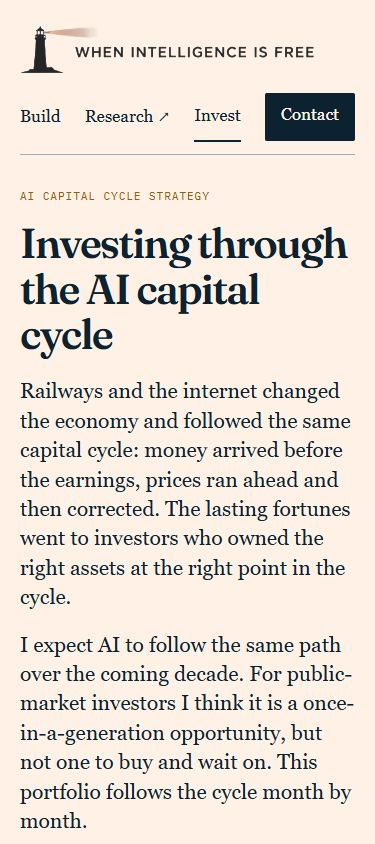
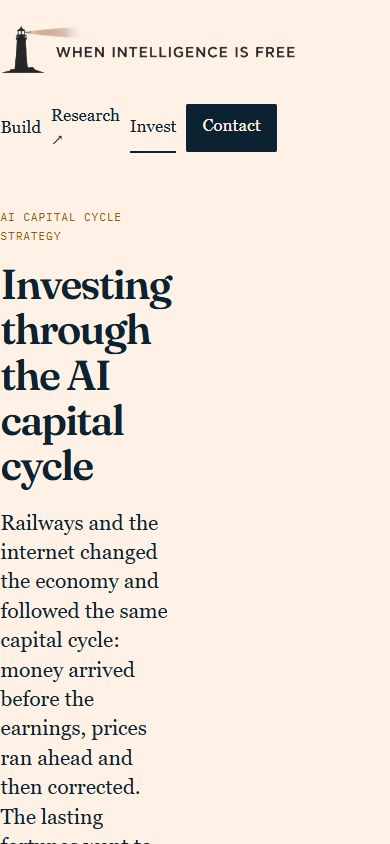
Record production verification and complete screenshot comparisons

diff --git a/docs/website-pass-2026-11-17/CHANGELOG.md b/docs/website-pass-2026-11-17/CHANGELOG.md
@@ -66,7 +66,7 @@ to 31 October 2026, USD, gross of fees, unaudited.
 
 ## Validation and release
 
-Run npm run check and npm run build:release before publishing. The expanded
+Passed npm run check and npm run build:release before publishing. The expanded
 landing checks cover section order, anchors, assets, one embed, email ordering,
 metadata, Person data, allocation arithmetic, table groups, chart descriptions,
 monthly-chart geometry and unchanged financial values. All 64 regression tests
@@ -74,14 +74,33 @@ also run. Financial inputs, investment ranges, theme colour, portrait and
 typography are unchanged. CSS changes adapt existing components to three cards,
 the removed hero form and semantic table groups.
 
-Production verification and sharing-debugger results are recorded after release.
+Published implementation a8f1dba and asset-cache fix 75388db to origin/main.
+Cloudflare Pages and GitHub validate-and-build both completed successfully.
+Verified Home and Invest at https://whenintelligenceisfree.com: HTTP 200, Record
+navigation, en_GB, zero em dashes and one Invest subscription iframe. Browser
+checks at desktop and mobile found no horizontal page overflow. Monthly and
+cumulative toggles work, Record reaches #record, and the native Substack email
+input loads without submitting it. Favicons, apple-touch-icon, sharing card and
+the new brandmark URL all return 200. Deployed brandmark SHA-256 matches source:
+C0682BF15DE0E14EF2EA88A29FA4526C61032E46597E48DEAC6BDAC8A329EAD9.
+
+LinkedIn Post Inspector was attempted for Home and redirected to its sign-in
+page. Access to the existing signed-in Chrome window timed out at the computer
+use approval step. Thus the debugger check remains unverified for both pages;
+the production Open Graph/Twitter metadata and card asset were checked directly.
+No new login or post was created.
+
 Rollback: revert the finishing-pass implementation commit without overwriting
 later unrelated changes.
 
 ## Screenshots
 
-Captured at 1440 × 1000 desktop and 390 × 844 mobile. Baseline is the public
-site before this pass; after images show the released public site.
+Captured at 1440 × 1000 desktop and 390 × 844 mobile. Initial baseline captures
+were clipped by the browser surface. They were replaced using the exact prior
+Cloudflare deployment of commit 5ddc23e, whose URL was obtained from that
+commit's public Cloudflare check output:
+https://a6f11ee1.when-intelligence-is-free.pages.dev/.
+After images show the released public domain at commit 75388db.
 
 | Surface | Before | After |
 | --- | --- | --- |
